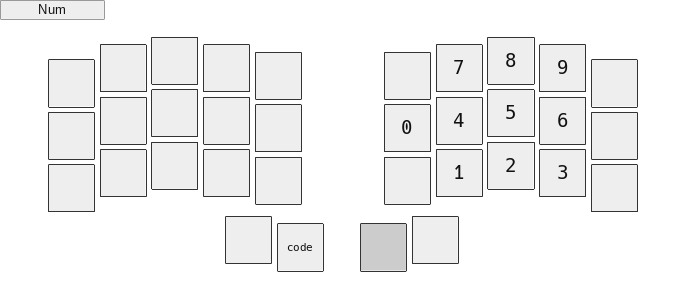
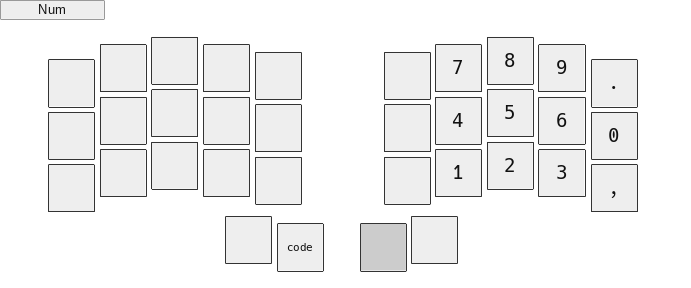
Up numeric

diff --git a/keymap.c b/keymap.c
@@ -28,7 +28,7 @@ bool process_record_user(uint16_t keycode, keyrecord_t *record) {
                 register_code(KC_LCTL);
                 register_code(KC_LSFT);
                 tap_code16(KC_U);
-            }else {
+            } else {
                 unregister_code(KC_LCTL);
                 unregister_code(KC_LSFT);
             }
@@ -55,11 +55,11 @@ const uint16_t PROGMEM keymaps[][MATRIX_ROWS][MATRIX_COLS] = {
 
     [_NUMERIC] = LAYOUT(
     //|---------------+---------------+---------------+---------------+---------------|       |---------------+---------------+---------------+---------------+---------------|
-           _______    ,    XXXXXXX    ,    XXXXXXX    ,    XXXXXXX    ,    _______    ,            XXXXXXX    ,     KC_7      ,     KC_8      ,     KC_9      ,    XXXXXXX    ,
+           _______    ,    XXXXXXX    ,    XXXXXXX    ,    XXXXXXX    ,    _______    ,            XXXXXXX    ,     KC_7      ,     KC_8      ,     KC_9      ,    KC_DOT     ,
     //|---------------+---------------+---------------+---------------+---------------|       |---------------+---------------+---------------+---------------+---------------|
-           XXXXXXX    ,    XXXXXXX    ,    XXXXXXX    ,    XXXXXXX    ,    XXXXXXX    ,              KC_0     ,     KC_4      ,     KC_5      ,     KC_6      ,    XXXXXXX    ,
+           XXXXXXX    ,    XXXXXXX    ,    XXXXXXX    ,    XXXXXXX    ,    _______    ,            XXXXXXX    ,     KC_4      ,     KC_5      ,     KC_6      ,     KC_0      ,
     //|---------------+---------------+---------------+---------------+---------------|       |---------------+---------------+---------------+---------------+---------------|
-           _______    ,    XXXXXXX    ,    XXXXXXX    ,    XXXXXXX    ,    XXXXXXX    ,            XXXXXXX    ,     KC_1      ,     KC_2      ,     KC_3      ,    XXXXXXX    ,
+           _______    ,    XXXXXXX    ,    XXXXXXX    ,    XXXXXXX    ,    XXXXXXX    ,            XXXXXXX    ,     KC_1      ,     KC_2      ,     KC_3      ,    KC_COMM    ,
     //|---------------+---------------+---------------+---------------+---------------|       |---------------+---------------+---------------+---------------+---------------|
     //                               |-------------------------+-------------------------| |-------------------------+-------------------------|
                                                 XXXXXXX        ,         UNICODE         ,          XXXXXXX          ,       XXXXXXX
@@ -70,7 +70,7 @@ const uint16_t PROGMEM keymaps[][MATRIX_ROWS][MATRIX_COLS] = {
     //|---------------+---------------+---------------+---------------+---------------|       |---------------+---------------+---------------+---------------+---------------|
         KC_MS_WH_LEFT ,  KC_MS_WH_UP  , KC_MS_WH_DOWN , KC_MS_WH_RIGHT,    _______    ,            XXXXXXX    ,    XXXXXXX    ,    XXXXXXX    ,    XXXXXXX    ,    XXXXXXX    ,
     //|---------------+---------------+---------------+---------------+---------------|       |---------------+---------------+---------------+---------------+---------------|
-          KC_MS_LEFT  ,   KC_MS_UP    ,  KC_MS_DOWN   ,  KC_MS_RIGHT  ,    XXXXXXX    ,            XXXXXXX    ,  KC_MS_ACCEL0 ,  KC_MS_ACCEL1 ,  KC_MS_ACCEL2 ,    XXXXXXX    ,
+          KC_MS_LEFT  ,   KC_MS_UP    ,  KC_MS_DOWN   ,  KC_MS_RIGHT  ,    _______    ,            XXXXXXX    ,  KC_MS_ACCEL0 ,  KC_MS_ACCEL1 ,  KC_MS_ACCEL2 ,    XXXXXXX    ,
     //|---------------+---------------+---------------+---------------+---------------|       |---------------+---------------+---------------+---------------+---------------|
           KC_MS_BTN1  ,    XXXXXXX    ,  KC_MS_BTN3   ,  KC_MS_BTN2   ,    XXXXXXX    ,            XXXXXXX    ,    XXXXXXX    ,    XXXXXXX    ,    XXXXXXX    ,    XXXXXXX    ,
     //|---------------+---------------+---------------+---------------+---------------|       |---------------+---------------+---------------+---------------+---------------|
@@ -83,7 +83,7 @@ const uint16_t PROGMEM keymaps[][MATRIX_ROWS][MATRIX_COLS] = {
     //|---------------+---------------+---------------+---------------+---------------|       |---------------+---------------+---------------+---------------+---------------|
            _______    ,    XXXXXXX    ,    XXXXXXX    ,    XXXXXXX    ,    _______    ,            XXXXXXX    ,    KC_HOME    ,  KC_PAGE_DOWN ,   KC_PAGE_UP  ,     KC_END    ,
     //|---------------+---------------+---------------+---------------+---------------|       |---------------+---------------+---------------+---------------+---------------|
-           XXXXXXX    ,    XXXXXXX    ,    XXXXXXX    ,    XXXXXXX    ,    XXXXXXX    ,            XXXXXXX    ,    KC_LEFT    ,    KC_DOWN    ,     KC_UP     ,    KC_RIGHT   ,
+           XXXXXXX    ,    XXXXXXX    ,    XXXXXXX    ,    XXXXXXX    ,    _______    ,            XXXXXXX    ,    KC_LEFT    ,    KC_DOWN    ,     KC_UP     ,    KC_RIGHT   ,
     //|---------------+---------------+---------------+---------------+---------------|       |---------------+---------------+---------------+---------------+---------------|
            _______    ,    XXXXXXX    ,    XXXXXXX    ,    XXXXXXX    ,    XXXXXXX    ,            XXXXXXX    ,    XXXXXXX    ,    C(KC_D)    ,    C(KC_U)    ,    XXXXXXX    ,
     //|---------------+---------------+---------------+---------------+---------------|       |---------------+---------------+---------------+---------------+---------------|
@@ -109,7 +109,7 @@ const uint16_t PROGMEM keymaps[][MATRIX_ROWS][MATRIX_COLS] = {
     //|---------------+---------------+---------------+---------------+---------------|       |---------------+---------------+---------------+---------------+---------------|
            _______    ,    XXXXXXX    ,    XXXXXXX    ,    XXXXXXX    ,    _______    ,            XXXXXXX    ,     KC_F7     ,     KC_F8     ,     KC_F9     ,     KC_F10    ,
     //|---------------+---------------+---------------+---------------+---------------|       |---------------+---------------+---------------+---------------+---------------|
-           XXXXXXX    ,    XXXXXXX    ,    XXXXXXX    ,    XXXXXXX    ,    XXXXXXX    ,            XXXXXXX    ,     KC_F4     ,     KC_F5     ,     KC_F6     ,     KC_F11    ,
+           XXXXXXX    ,    XXXXXXX    ,    XXXXXXX    ,    XXXXXXX    ,    _______    ,            XXXXXXX    ,     KC_F4     ,     KC_F5     ,     KC_F6     ,     KC_F11    ,
     //|---------------+---------------+---------------+---------------+---------------|       |---------------+---------------+---------------+---------------+---------------|
            _______    ,    XXXXXXX    ,    XXXXXXX    ,    XXXXXXX    ,    XXXXXXX    ,            XXXXXXX    ,     KC_F1     ,     KC_F2     ,     KC_F3     ,     KC_F12    ,
     //|---------------+---------------+---------------+---------------+---------------|       |---------------+---------------+---------------+---------------+---------------|
